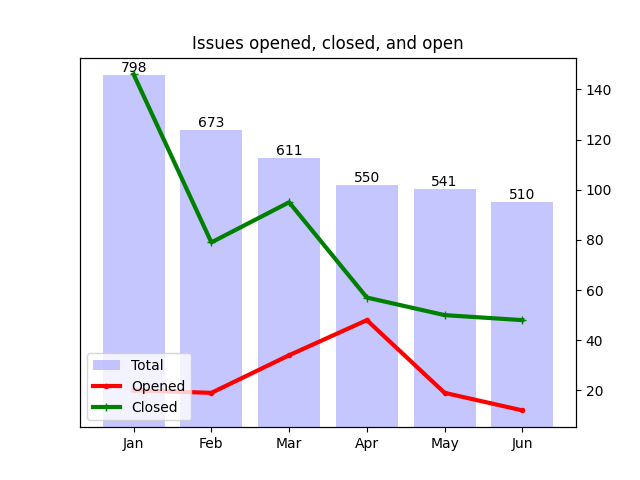
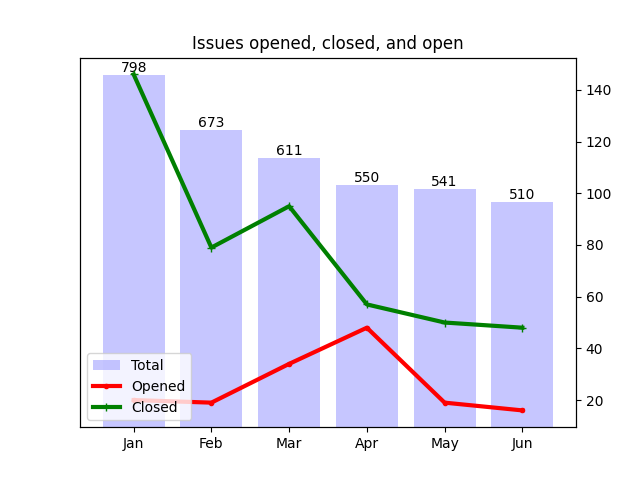
Apply automatic changes

diff --git a/docs/analytics.html b/docs/analytics.html
@@ -94,7 +94,7 @@ td .material-icons { display:inline-flex; vertical-align: top; font-size:1.1rem;
 						</tr>
 						<tr>
 							<td>Jun</td>
-							<td>12</td>
+							<td>16</td>
 							<td>48</td>
 						</tr>
 					</table>
@@ -125,13 +125,13 @@ td .material-icons { display:inline-flex; vertical-align: top; font-size:1.1rem;
 						</tr>
 						<tr>
 							<td>
-								<a href="http://github.com/notofonts/arabic/issues">arabic</a>
+								<a href="http://github.com/notofonts/nastaliq/issues">nastaliq</a>
 							</td>
-							<td>19</td>
+							<td>20</td>
 						</tr>
 						<tr>
 							<td>
-								<a href="http://github.com/notofonts/nastaliq/issues">nastaliq</a>
+								<a href="http://github.com/notofonts/arabic/issues">arabic</a>
 							</td>
 							<td>19</td>
 						</tr>
@@ -192,7 +192,7 @@ td .material-icons { display:inline-flex; vertical-align: top; font-size:1.1rem;
 				<tr>
 					<td>2</td>
 					<td>
-						<a href="http://github.com/notofonts/chorasmian/issues">chorasmian</a>,  						<a href="http://github.com/notofonts/elbasan/issues">elbasan</a>,  						<a href="http://github.com/notofonts/elymaic/issues">elymaic</a>,  						<a href="http://github.com/notofonts/inscriptional-pahlavi/issues">inscriptional-pahlavi</a>,  						<a href="http://github.com/notofonts/javanese/issues">javanese</a>,  						<a href="http://github.com/notofonts/lydian/issues">lydian</a>,  						<a href="http://github.com/notofonts/marchen/issues">marchen</a>,  						<a href="http://github.com/notofonts/meroitic/issues">meroitic</a>,  						<a href="http://github.com/notofonts/music/issues">music</a>,  						<a href="http://github.com/notofonts/old-turkic/issues">old-turkic</a>,  						<a href="http://github.com/notofonts/oriya/issues">oriya</a>,  						<a href="http://github.com/notofonts/phags-pa/issues">phags-pa</a>,  						<a href="http://github.com/notofonts/psalter-pahlavi/issues">psalter-pahlavi</a>,  						<a href="http://github.com/notofonts/tamil/issues">tamil</a>,  						<a href="http://github.com/notofonts/tifinagh/issues">tifinagh</a>,  						<a href="http://github.com/notofonts/yezidi/issues">yezidi</a> 
+						<a href="http://github.com/notofonts/chorasmian/issues">chorasmian</a>,  						<a href="http://github.com/notofonts/elbasan/issues">elbasan</a>,  						<a href="http://github.com/notofonts/elymaic/issues">elymaic</a>,  						<a href="http://github.com/notofonts/inscriptional-pahlavi/issues">inscriptional-pahlavi</a>,  						<a href="http://github.com/notofonts/javanese/issues">javanese</a>,  						<a href="http://github.com/notofonts/lydian/issues">lydian</a>,  						<a href="http://github.com/notofonts/marchen/issues">marchen</a>,  						<a href="http://github.com/notofonts/meroitic/issues">meroitic</a>,  						<a href="http://github.com/notofonts/music/issues">music</a>,  						<a href="http://github.com/notofonts/old-turkic/issues">old-turkic</a>,  						<a href="http://github.com/notofonts/phags-pa/issues">phags-pa</a>,  						<a href="http://github.com/notofonts/psalter-pahlavi/issues">psalter-pahlavi</a>,  						<a href="http://github.com/notofonts/tamil/issues">tamil</a>,  						<a href="http://github.com/notofonts/tifinagh/issues">tifinagh</a>,  						<a href="http://github.com/notofonts/yezidi/issues">yezidi</a> 
 					</td>
 				</tr>
 				<tr>
@@ -204,7 +204,7 @@ td .material-icons { display:inline-flex; vertical-align: top; font-size:1.1rem;
 				<tr>
 					<td>4</td>
 					<td>
-						<a href="http://github.com/notofonts/armenian/issues">armenian</a>,  						<a href="http://github.com/notofonts/dogra/issues">dogra</a>,  						<a href="http://github.com/notofonts/gurmukhi/issues">gurmukhi</a>,  						<a href="http://github.com/notofonts/manichaean/issues">manichaean</a>,  						<a href="http://github.com/notofonts/modi/issues">modi</a>,  						<a href="http://github.com/notofonts/nandinagari/issues">nandinagari</a>,  						<a href="http://github.com/notofonts/syriac/issues">syriac</a>,  						<a href="http://github.com/notofonts/tibetan/issues">tibetan</a> 
+						<a href="http://github.com/notofonts/armenian/issues">armenian</a>,  						<a href="http://github.com/notofonts/dogra/issues">dogra</a>,  						<a href="http://github.com/notofonts/gurmukhi/issues">gurmukhi</a>,  						<a href="http://github.com/notofonts/manichaean/issues">manichaean</a>,  						<a href="http://github.com/notofonts/modi/issues">modi</a>,  						<a href="http://github.com/notofonts/nandinagari/issues">nandinagari</a>,  						<a href="http://github.com/notofonts/oriya/issues">oriya</a>,  						<a href="http://github.com/notofonts/syriac/issues">syriac</a>,  						<a href="http://github.com/notofonts/tibetan/issues">tibetan</a> 
 					</td>
 				</tr>
 				<tr>
@@ -222,13 +222,13 @@ td .material-icons { display:inline-flex; vertical-align: top; font-size:1.1rem;
 				<tr>
 					<td>7</td>
 					<td>
-						<a href="http://github.com/notofonts/devanagari/issues">devanagari</a>,  						<a href="http://github.com/notofonts/dives-akuru/issues">dives-akuru</a>,  						<a href="http://github.com/notofonts/mongolian/issues">mongolian</a>,  						<a href="http://github.com/notofonts/syloti-nagri/issues">syloti-nagri</a>,  						<a href="http://github.com/notofonts/symbols/issues">symbols</a> 
+						<a href="http://github.com/notofonts/devanagari/issues">devanagari</a>,  						<a href="http://github.com/notofonts/dives-akuru/issues">dives-akuru</a>,  						<a href="http://github.com/notofonts/syloti-nagri/issues">syloti-nagri</a>,  						<a href="http://github.com/notofonts/symbols/issues">symbols</a> 
 					</td>
 				</tr>
 				<tr>
 					<td>8</td>
 					<td>
-						<a href="http://github.com/notofonts/malayalam/issues">malayalam</a> 
+						<a href="http://github.com/notofonts/malayalam/issues">malayalam</a>,  						<a href="http://github.com/notofonts/mongolian/issues">mongolian</a> 
 					</td>
 				</tr>
 				<tr>
@@ -257,9 +257,9 @@ td .material-icons { display:inline-flex; vertical-align: top; font-size:1.1rem;
 							<td>
 									<a href="http://github.com/notofonts/latin-greek-cyrillic/issues">latin-greek-cyrillic</a>: 136, 
 
-									<a href="http://github.com/notofonts/arabic/issues">arabic</a>: 19, 
+									<a href="http://github.com/notofonts/nastaliq/issues">nastaliq</a>: 20, 
 
-									<a href="http://github.com/notofonts/nastaliq/issues">nastaliq</a>: 19, 
+									<a href="http://github.com/notofonts/arabic/issues">arabic</a>: 19, 
 
 									<a href="http://github.com/notofonts/gujarati/issues">gujarati</a>: 13, 
 
@@ -277,9 +277,9 @@ td .material-icons { display:inline-flex; vertical-align: top; font-size:1.1rem;
 
 									<a href="http://github.com/notofonts/gurmukhi/issues">gurmukhi</a>: 4, 
 
-									<a href="http://github.com/notofonts/telugu/issues">telugu</a>: 3, 
+									<a href="http://github.com/notofonts/oriya/issues">oriya</a>: 4, 
 
-									<a href="http://github.com/notofonts/oriya/issues">oriya</a>: 2, 
+									<a href="http://github.com/notofonts/telugu/issues">telugu</a>: 3, 
 
 									<a href="http://github.com/notofonts/tamil/issues">tamil</a>: 2
 							</td>
@@ -305,7 +305,7 @@ td .material-icons { display:inline-flex; vertical-align: top; font-size:1.1rem;
 							<td>
 									<a href="http://github.com/notofonts/math/issues">math</a>: 9, 
 
-									<a href="http://github.com/notofonts/mongolian/issues">mongolian</a>: 7, 
+									<a href="http://github.com/notofonts/mongolian/issues">mongolian</a>: 8, 
 
 									<a href="http://github.com/notofonts/syloti-nagri/issues">syloti-nagri</a>: 7, 
 
